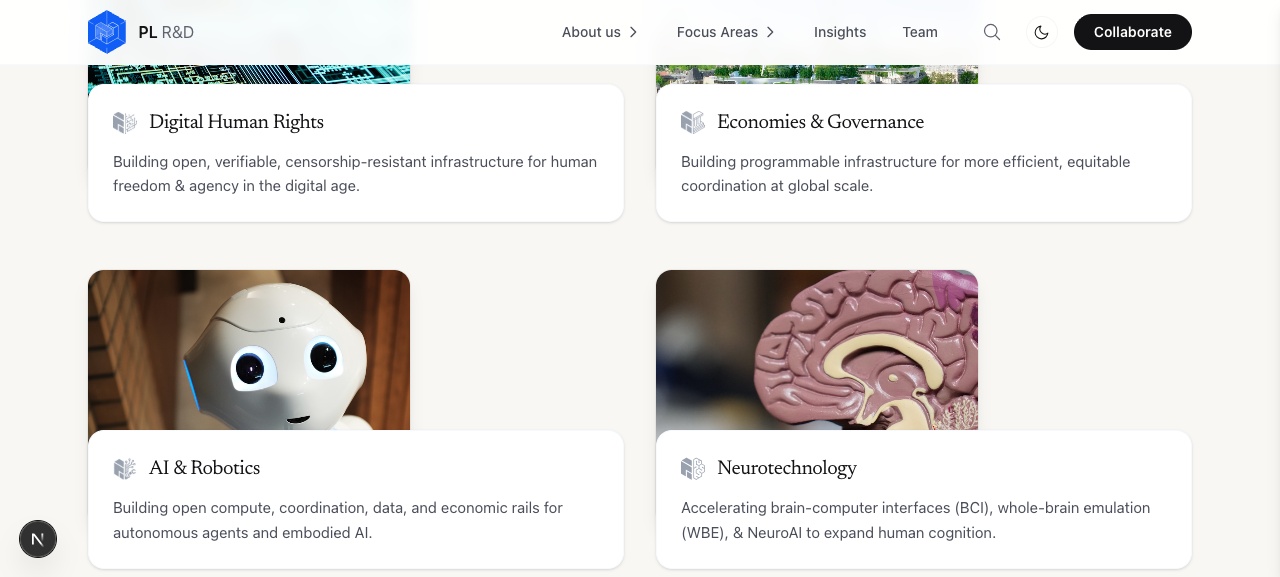
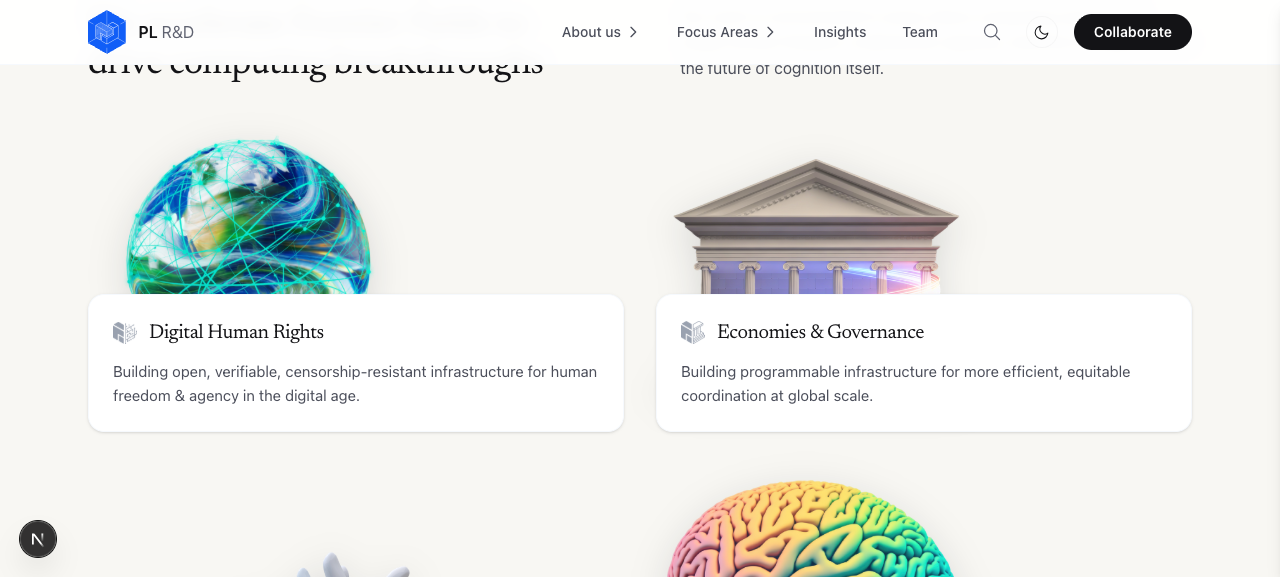
Use focus-area hero illustrations instead of photos
Switch the floating focus-area imagery from photographs to the 3D hero
illustrations already used on the area pages (networked globe, parthenon,
robot hand, brain). Each hero PNG is trimmed to its subject (alpha bounding
box) into public/images/focus-areas/ and floated above the card as a
transparent cutout with object-contain and a soft drop shadow (no photo
frame).

diff --git a/src/app/page.tsx b/src/app/page.tsx
@@ -8,12 +8,12 @@ import { fetchPage, getSection } from "@/lib/indexer"
 import { FOCUS_AREA_DESCRIPTIONS } from '@/lib/focus-area-descriptions'
 import { type HexPattern } from "@/lib/hex-mosaic"
 
-/** Focus-area imagery shown floating above each card (replaces the hex cloud). */
+/** Focus-area hero illustrations floating above each card (replaces the hex cloud). */
 const FOCUS_AREA_IMAGES: Record<string, string> = {
-  'digital-human-rights': '/images/fa2/digital-human-rights.jpg',
-  'economies-governance': '/images/fa2/fa2.webp',
-  'ai-robotics': '/images/fa2/ai-robotics.jpg',
-  neurotech: '/images/fa2/neurotech.jpg',
+  'digital-human-rights': '/images/focus-areas/digital-human-rights.png',
+  'economies-governance': '/images/focus-areas/economies-governance.png',
+  'ai-robotics': '/images/focus-areas/ai-robotics.png',
+  neurotech: '/images/focus-areas/neurotech.png',
 }
 import RDPipeline from "@/components/RDPipeline"
 import InsightCarousel from "@/components/InsightCarousel"
@@ -283,7 +283,7 @@ function FocusAreaCard({
 
   return (
     <div className="group relative isolate">
-      {/* Focus-area image, floating above the card (replaces the hex cloud). */}
+      {/* Focus-area illustration floating above the card (replaces the hex cloud). */}
       <div
         aria-hidden="true"
         className="pointer-events-none absolute left-0 -top-32 sm:-top-36 lg:-top-40 w-[65%] sm:w-[62%] lg:w-[60%] h-56 sm:h-64 lg:h-64 select-none"
@@ -293,7 +293,7 @@ function FocusAreaCard({
           <img
             src={image}
             alt=""
-            className="absolute bottom-0 left-0 h-full w-full rounded-2xl object-cover shadow-lg ring-1 ring-black/5 transition-transform duration-500 ease-out group-hover:-translate-y-1.5 group-hover:scale-[1.02]"
+            className="absolute bottom-0 left-0 h-full w-full object-contain object-bottom [filter:drop-shadow(0_10px_18px_rgba(15,17,21,0.14))] transition-transform duration-500 ease-out group-hover:-translate-y-1.5 group-hover:scale-[1.02]"
           />
         )}
       </div>